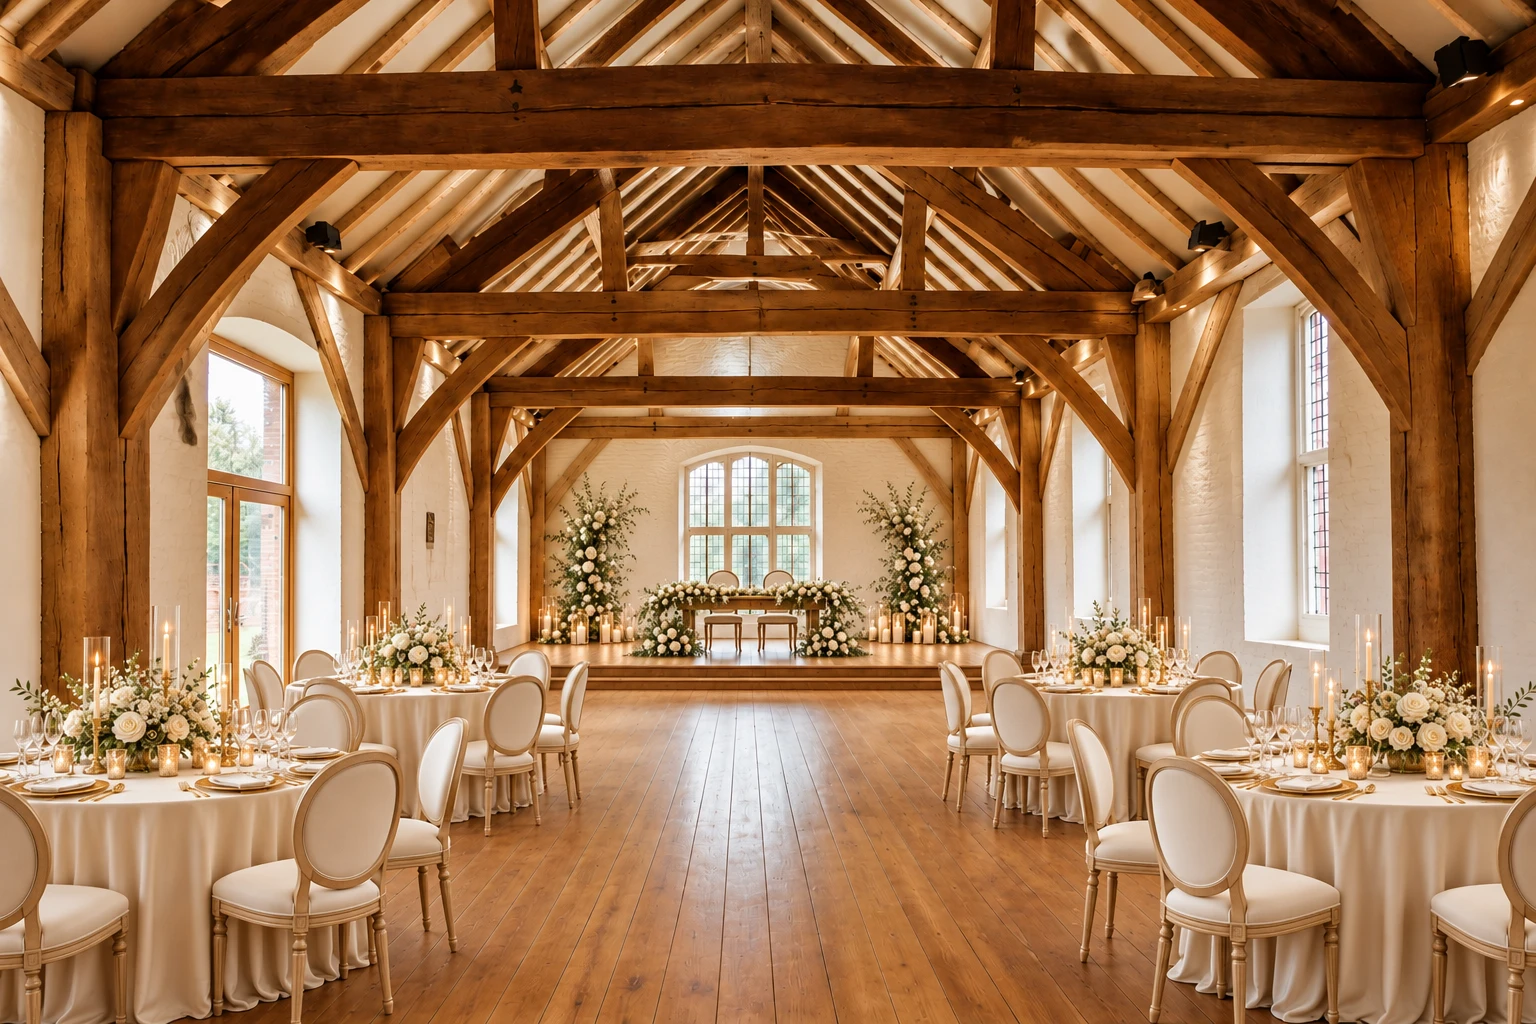
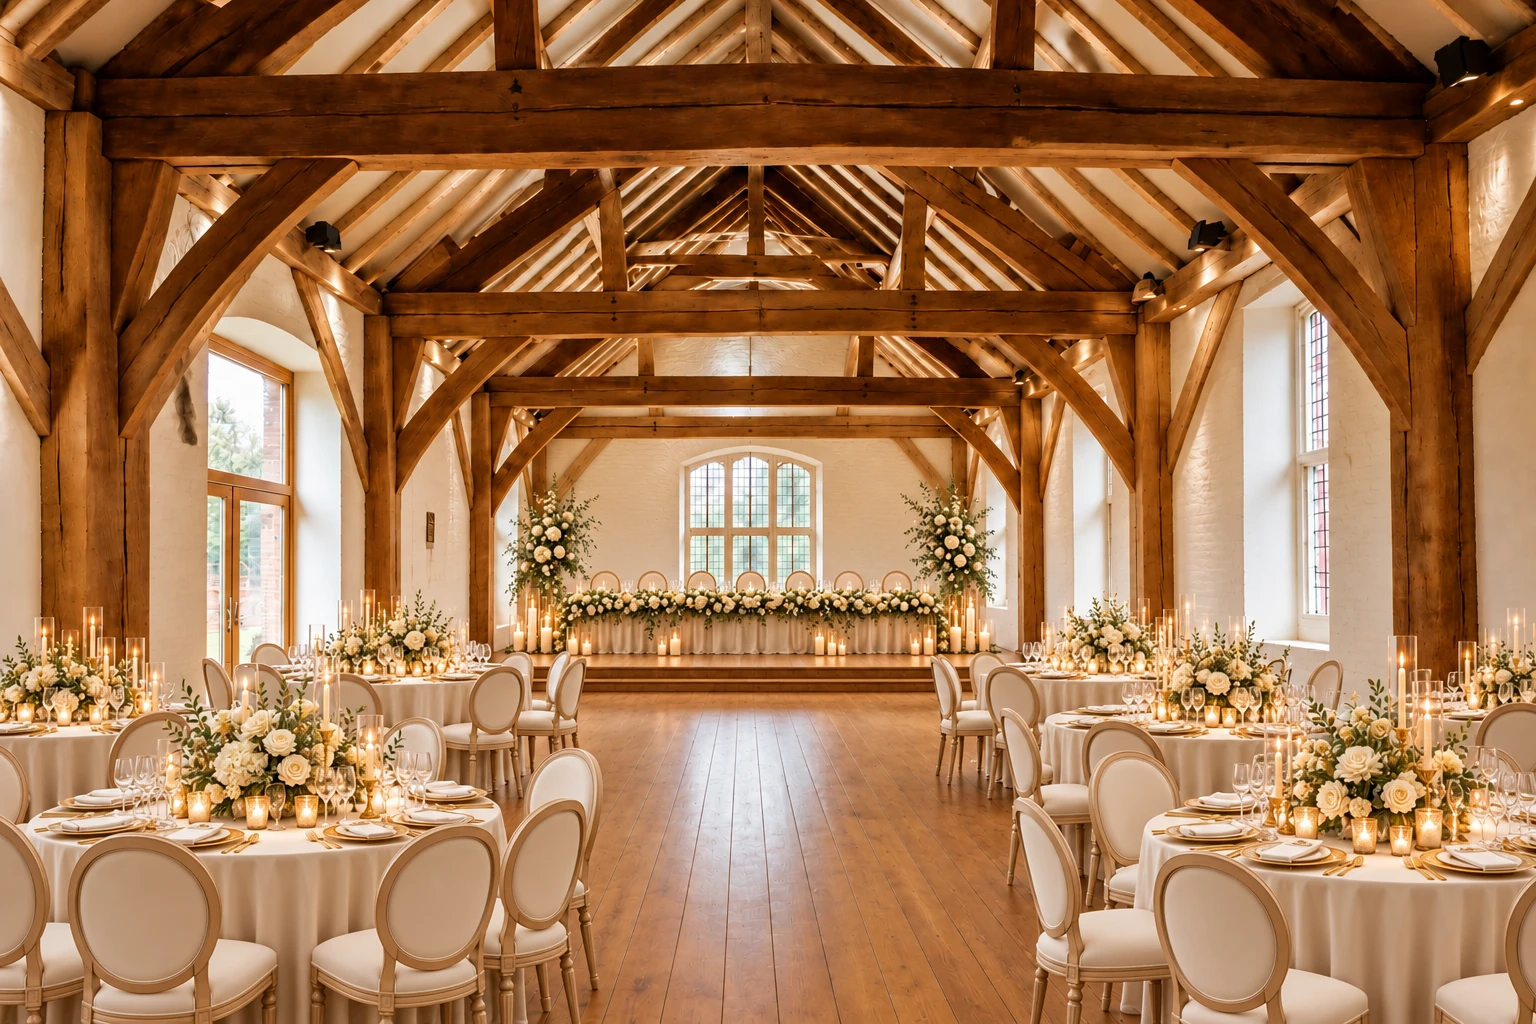
Make barn receptions fuller with wedding-party top tables

diff --git a/app/(site)/page.tsx b/app/(site)/page.tsx
@@ -268,7 +268,7 @@ function StyleDemoPreview() {
           {/* eslint-disable-next-line @next/next/no-img-element */}
           <img
             src={r.src}
-            alt={r.label === "Original venue" ? "Empty oak barn with timber beams, white walls and a wooden floor" : `Oak barn wedding reception in ${r.label} style, with guest dining tables and a raised sweetheart table at the back`}
+            alt={r.label === "Original venue" ? "Empty oak barn with timber beams, white walls and a wooden floor" : `Oak barn wedding reception in ${r.label} style, with guest dining tables and a raised wedding-party top table at the back`}
             width={1536}
             height={1024}
             loading="lazy"

diff --git a/docs/barn-reception-prompts.md b/docs/barn-reception-prompts.md
@@ -1,0 +1,16 @@
+# Barn reception image edits
+
+Generated with the built-in image-generation tool using each existing render as its reference. The empty original venue stays unchanged.
+
+## garden romance
+
+Use case: precise-object-edit. Edit the attached wedding reception photo. Preserve exactly the barn architecture, beam geometry, doors, windows, floor, camera framing and landscape 3:2 dimensions. CHANGE THE BACK HEAD TABLE: replace the tiny table for two with a long beautifully decorated wedding-party top table seating EIGHT people in a single row facing the room, eight visible chairs behind the table, couple centred. Place it on the existing raised stage, extending almost across the stage width. Eight complete place settings and glasses, a generous continuous floral runner and candles across its front, floral arrangements at stage ends. Clearly a full wedding reception ready for dining, luxurious but physically plausible spacing. No people, no text or watermark. Garden Romance, keep blush roses, gold chiavari chairs, ivory linens. Increase from four to EIGHT round guest dining tables, four staggered along each side, each with six to eight chairs and complete formal place settings. Fill the foreground and mid-room, narrow the excessive empty central floor into a practical walkway.
++## classic elegance
+
+Use case: precise-object-edit. Edit the attached wedding reception photo. Preserve exactly the barn architecture, beam geometry, doors, windows, floor, camera framing and landscape 3:2 dimensions. CHANGE THE BACK HEAD TABLE: replace the tiny table for two with a long beautifully decorated wedding-party top table seating EIGHT people in a single row facing the room, eight visible chairs behind the table, couple centred. Place it on the existing raised stage, extending almost across the stage width. Eight complete place settings and glasses, a generous continuous floral runner and candles across its front, floral arrangements at stage ends. Clearly a full wedding reception ready for dining, luxurious but physically plausible spacing. No people, no text or watermark. Classic Elegance, keep ivory roses, champagne linens, ivory upholstered chairs, gold candles. Increase from four to EIGHT round guest dining tables, four staggered along each side, each with six to eight chairs and complete formal place settings. Fill foreground and mid-room, replace excessive vacant floor with more guest tables but retain a practical central walkway.
++## wildflower
+
+Use case: precise-object-edit. Edit the attached wedding reception photo. Preserve exactly the barn architecture, beam geometry, doors, windows, floor, camera framing and landscape 3:2 dimensions. CHANGE THE BACK HEAD TABLE: replace the tiny table for two with a long beautifully decorated wedding-party top table seating EIGHT people in a single row facing the room, eight visible chairs behind the table, couple centred. Place it on the existing raised stage, extending almost across the stage width. Eight complete place settings and glasses, a generous continuous floral runner and candles across its front, floral arrangements at stage ends. Clearly a full wedding reception ready for dining, luxurious but physically plausible spacing. No people, no text or watermark. Wildflower, keep timber trestle guest tables, crossback chairs, sage napkins, meadow flowers and festoon lights. Keep existing busy guest-table arrangement.
++## Garden Romance follow-up
+
+Add two additional round guest tables between foreground and rear tables, for six visible guest tables, preserving the expanded wedding-party top table and architecture.
